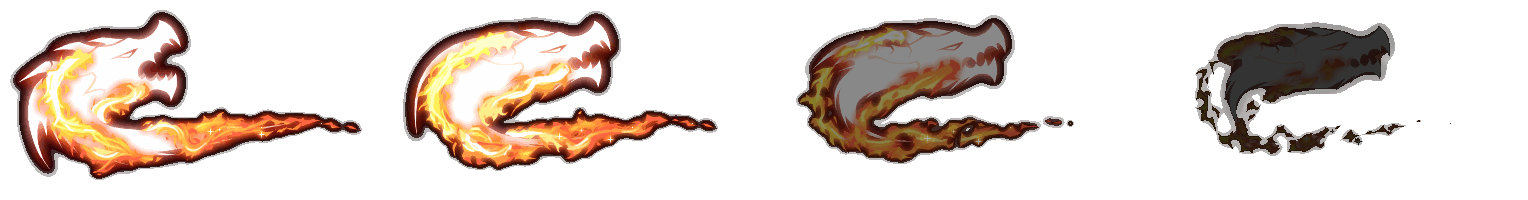
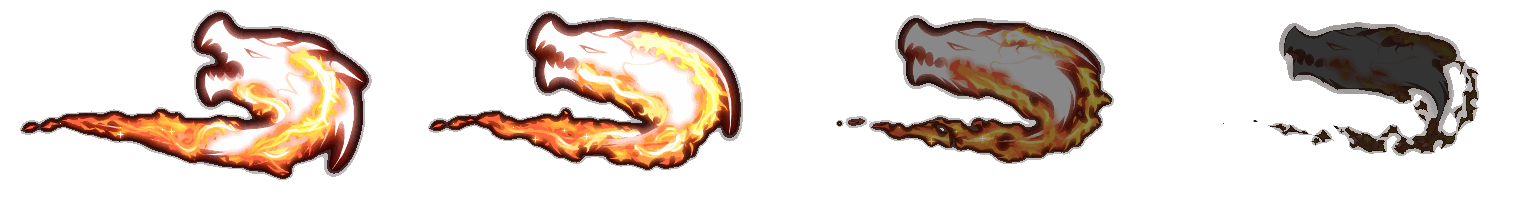
patch

diff --git a/js/vfx/sprite-vfx-v14-3-8.js b/js/vfx/sprite-vfx-v14-3-8.js
@@ -335,21 +335,28 @@ drawVisuals=function(){
       VFXSprites.drawOneShot("skillSaberDemonDescent",x,y,{age:progress,angle:a,scaleX:len/632,scaleY:h/340,alpha:vis,flipX:true});
     }else if(["skillFistTiger","skillFistHundredShoot","skillFistHundredCombo","skillFistDragonKick","skillFistDragonKickCombo","skillFistGoldenDragon","skillFistToOneDefense","skillFistToOne","skillFistGoldenCharge"].includes(v.type)){
       const a=v.a||0,r=v.r||120;
+      // All directional fist sprites are normalized so +X is forward.
+      // sourceX/sourceY are the local pixel coordinates that must sit on the caster/impact point.
       const cfg={
-        skillFistTiger:["skillFistTiger",.48,180],
-        skillFistHundredShoot:["skillFistHundredShoot",.42,190],
-        skillFistHundredCombo:["skillFistHundredCombo",0,150],
-        skillFistDragonKick:["skillFistDragonKick",.48,170],
-        skillFistDragonKickCombo:["skillFistDragonKickCombo",0,155],
-        skillFistGoldenDragon:["skillFistGoldenDragon",.46,520],
-        skillFistToOneDefense:["skillFistToOneDefense",.12,145],
-        skillFistToOne:["skillFistToOne",.25,340],
-        skillFistGoldenCharge:["skillFistGoldenCharge",.08,240]
-      }[v.type],id=cfg[0],off=cfg[1],div=cfg[2],x=v.x+Math.cos(a)*r*off,y=v.y+Math.sin(a)*r*off;
+        skillFistTiger:{id:"skillFistTiger",fw:512,fh:206,sourceX:46,sourceY:103,scale:Math.max(.34,r/512)},
+        skillFistHundredShoot:{id:"skillFistHundredShoot",fw:466,fh:275,sourceX:233,sourceY:138,scale:.56},
+        skillFistHundredCombo:{id:"skillFistHundredCombo",fw:640,fh:483,sourceX:320,sourceY:242,scale:.38},
+        skillFistDragonKick:{id:"skillFistDragonKick",fw:382,fh:200,sourceX:42,sourceY:102,scale:Math.max(.38,r/382)},
+        skillFistDragonKickCombo:{id:"skillFistDragonKickCombo",fw:460,fh:540,sourceX:230,sourceY:300,scale:.42},
+        skillFistGoldenDragon:{id:"skillFistGoldenDragon",fw:1304,fh:516,sourceX:115,sourceY:278,scale:Math.max(.46,r/1304)},
+        skillFistToOneDefense:{id:"skillFistToOneDefense",fw:667,fh:601,sourceX:334,sourceY:301,scale:.42},
+        skillFistToOne:{id:"skillFistToOne",fw:1614,fh:1040,sourceX:270,sourceY:520,scale:.42},
+        skillFistGoldenCharge:{id:"skillFistGoldenCharge",fw:822,fh:663,sourceX:260,sourceY:340,scale:.55}
+      }[v.type];
+      const localX=(cfg.fw*.5-cfg.sourceX)*cfg.scale,localY=(cfg.fh*.5-cfg.sourceY)*cfg.scale;
+      const x=v.x+Math.cos(a)*localX-Math.sin(a)*localY;
+      const y=v.y+Math.sin(a)*localX+Math.cos(a)*localY;
       const vis=v.holdAlpha?Math.min(1,Math.pow(alpha,.25)):alpha;
-      VFXSprites.drawOneShot(id,x,y,{age:progress,angle:a,scale:Math.max(.32,r/div),alpha:vis});
+      VFXSprites.drawOneShot(cfg.id,x,y,{age:progress,angle:a,scale:cfg.scale,alpha:vis});
     }else if(v.type==="skillFistGoldenBeam"){
-      const a=v.a||0,len=v.r||700,width=v.width||90,x=v.x+Math.cos(a)*len*.5,y=v.y+Math.sin(a)*len*.5;
+      const a=v.a||0,len=v.r||700,width=v.width||90;
+      // Beam local source is the left edge; its center is therefore half a beam length forward.
+      const x=v.x+Math.cos(a)*len*.5,y=v.y+Math.sin(a)*len*.5;
       const vis=Math.min(1,Math.pow(alpha,.18));
       VFXSprites.draw("skillFistGoldenBeam",x,y,{age:v.age||0,loop:true,angle:a,scaleX:len/900,scaleY:width/308,alpha:vis});
     }else if(v.type==="skillSaberThunderFan"){

diff --git a/js/data/characters-meta.js b/js/data/characters-meta.js
@@ -203,7 +203,7 @@ function ultimateAttack(){
    const stacks=player.huanglongStacks||0,scale=1+stacks*.035,beamLen=Math.max(W,H)*1.32,beamWidth=(82+stacks*2.2)*player.areaMul;
    setHuanglongStacks(0);
    addVisual({type:"skillFistGoldenCharge",x:player.x,y:player.y,a,r:205,life:1.56,max:1.56,color:"#ffd85a",holdAlpha:true});
-   const muzzle=118,x0=player.x+Math.cos(a)*muzzle,y0=player.y+Math.sin(a)*muzzle;
+   const chargeScale=.55,muzzle=(650-260)*chargeScale,x0=player.x+Math.cos(a)*muzzle,y0=player.y+Math.sin(a)*muzzle;
    delayed.push({time:1.42,type:"goldenDragonBeamStart",x:x0,y:y0,a,len:beamLen,width:beamWidth,damage:24*scale,stacks});
    addVisual({type:"text",x:player.x,y:player.y-52,text:`황룡 ${stacks} · 전량 방출`,life:1.0,max:1.0,color:"#ffe99a"});
  }

diff --git a/js/core/asset-loader.js b/js/core/asset-loader.js
@@ -8,7 +8,7 @@
  * 코드 생성 캐릭터로 되돌아가는 상황을 막기 위해 모든 시스템이 같은 Image 객체를 공유한다.
  */
 const GameAssets=(()=>{
-  const BUILD="v14.9.3-fist-rework";
+  const BUILD="v14.9.4-fist-anchor-normalization";
   const characterIds=["sword","spear","bow","poison","tao","saber","katana","fist"];
   const enemyIds=["bandit","spear","brute","master","assassin","blackblade","ironmonk","poisonhand","boss"];
   const weaponVisualIds=["sword","spear","bow","poison","tao","saber","katana","fist"];

diff --git a/service-worker.js b/service-worker.js
@@ -1,7 +1,7 @@
 "use strict";
 
 /** v14.6.9 sprite-first VFX architecture cache. 대용량 BGM은 스트리밍하고 SFX는 최초 사용 뒤 캐시한다. */
-const CACHE="cheonha-v14-9-3-fist-rework";
+const CACHE="cheonha-v14-9-4-fist-anchor-normalization";
 const APP_SHELL=[
   "./","index.html","manifest.webmanifest",
   "css/base.css","css/systems.css","css/remaster.css","css/mobile.css","css/animation-pass.css","css/awakening-cutscene.css","css/forge-v13.css","css/v14-improvements.css","css/audio-mixer-v14-3-3.css",
